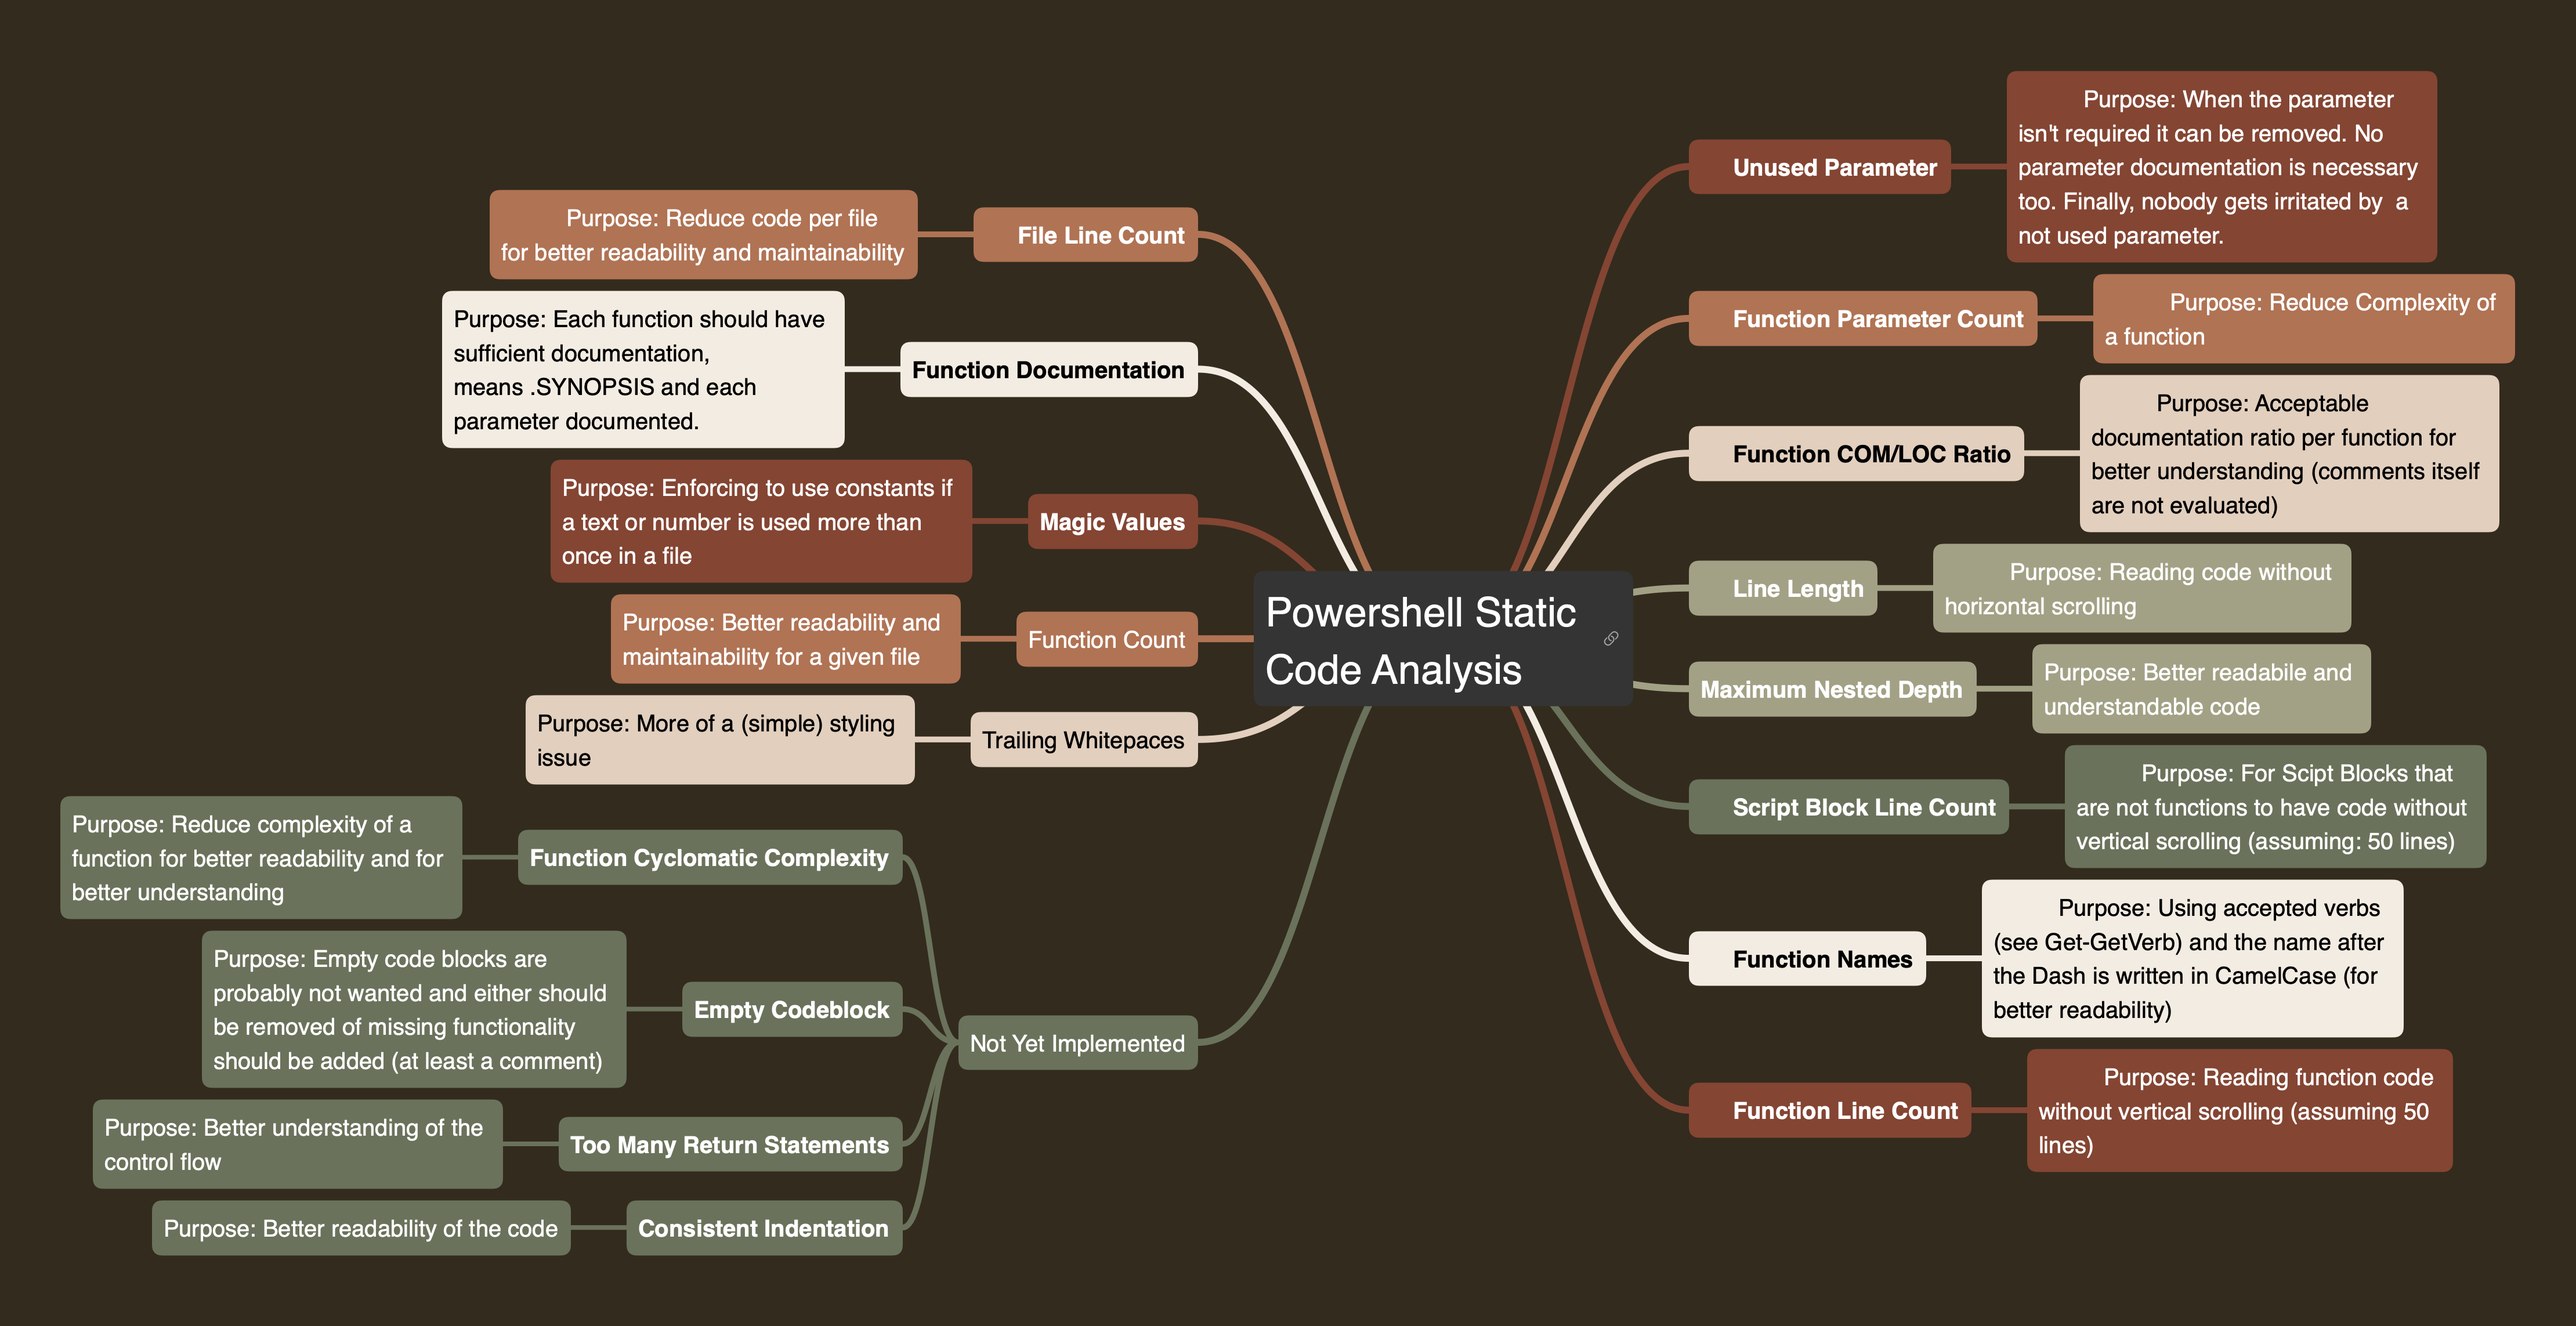
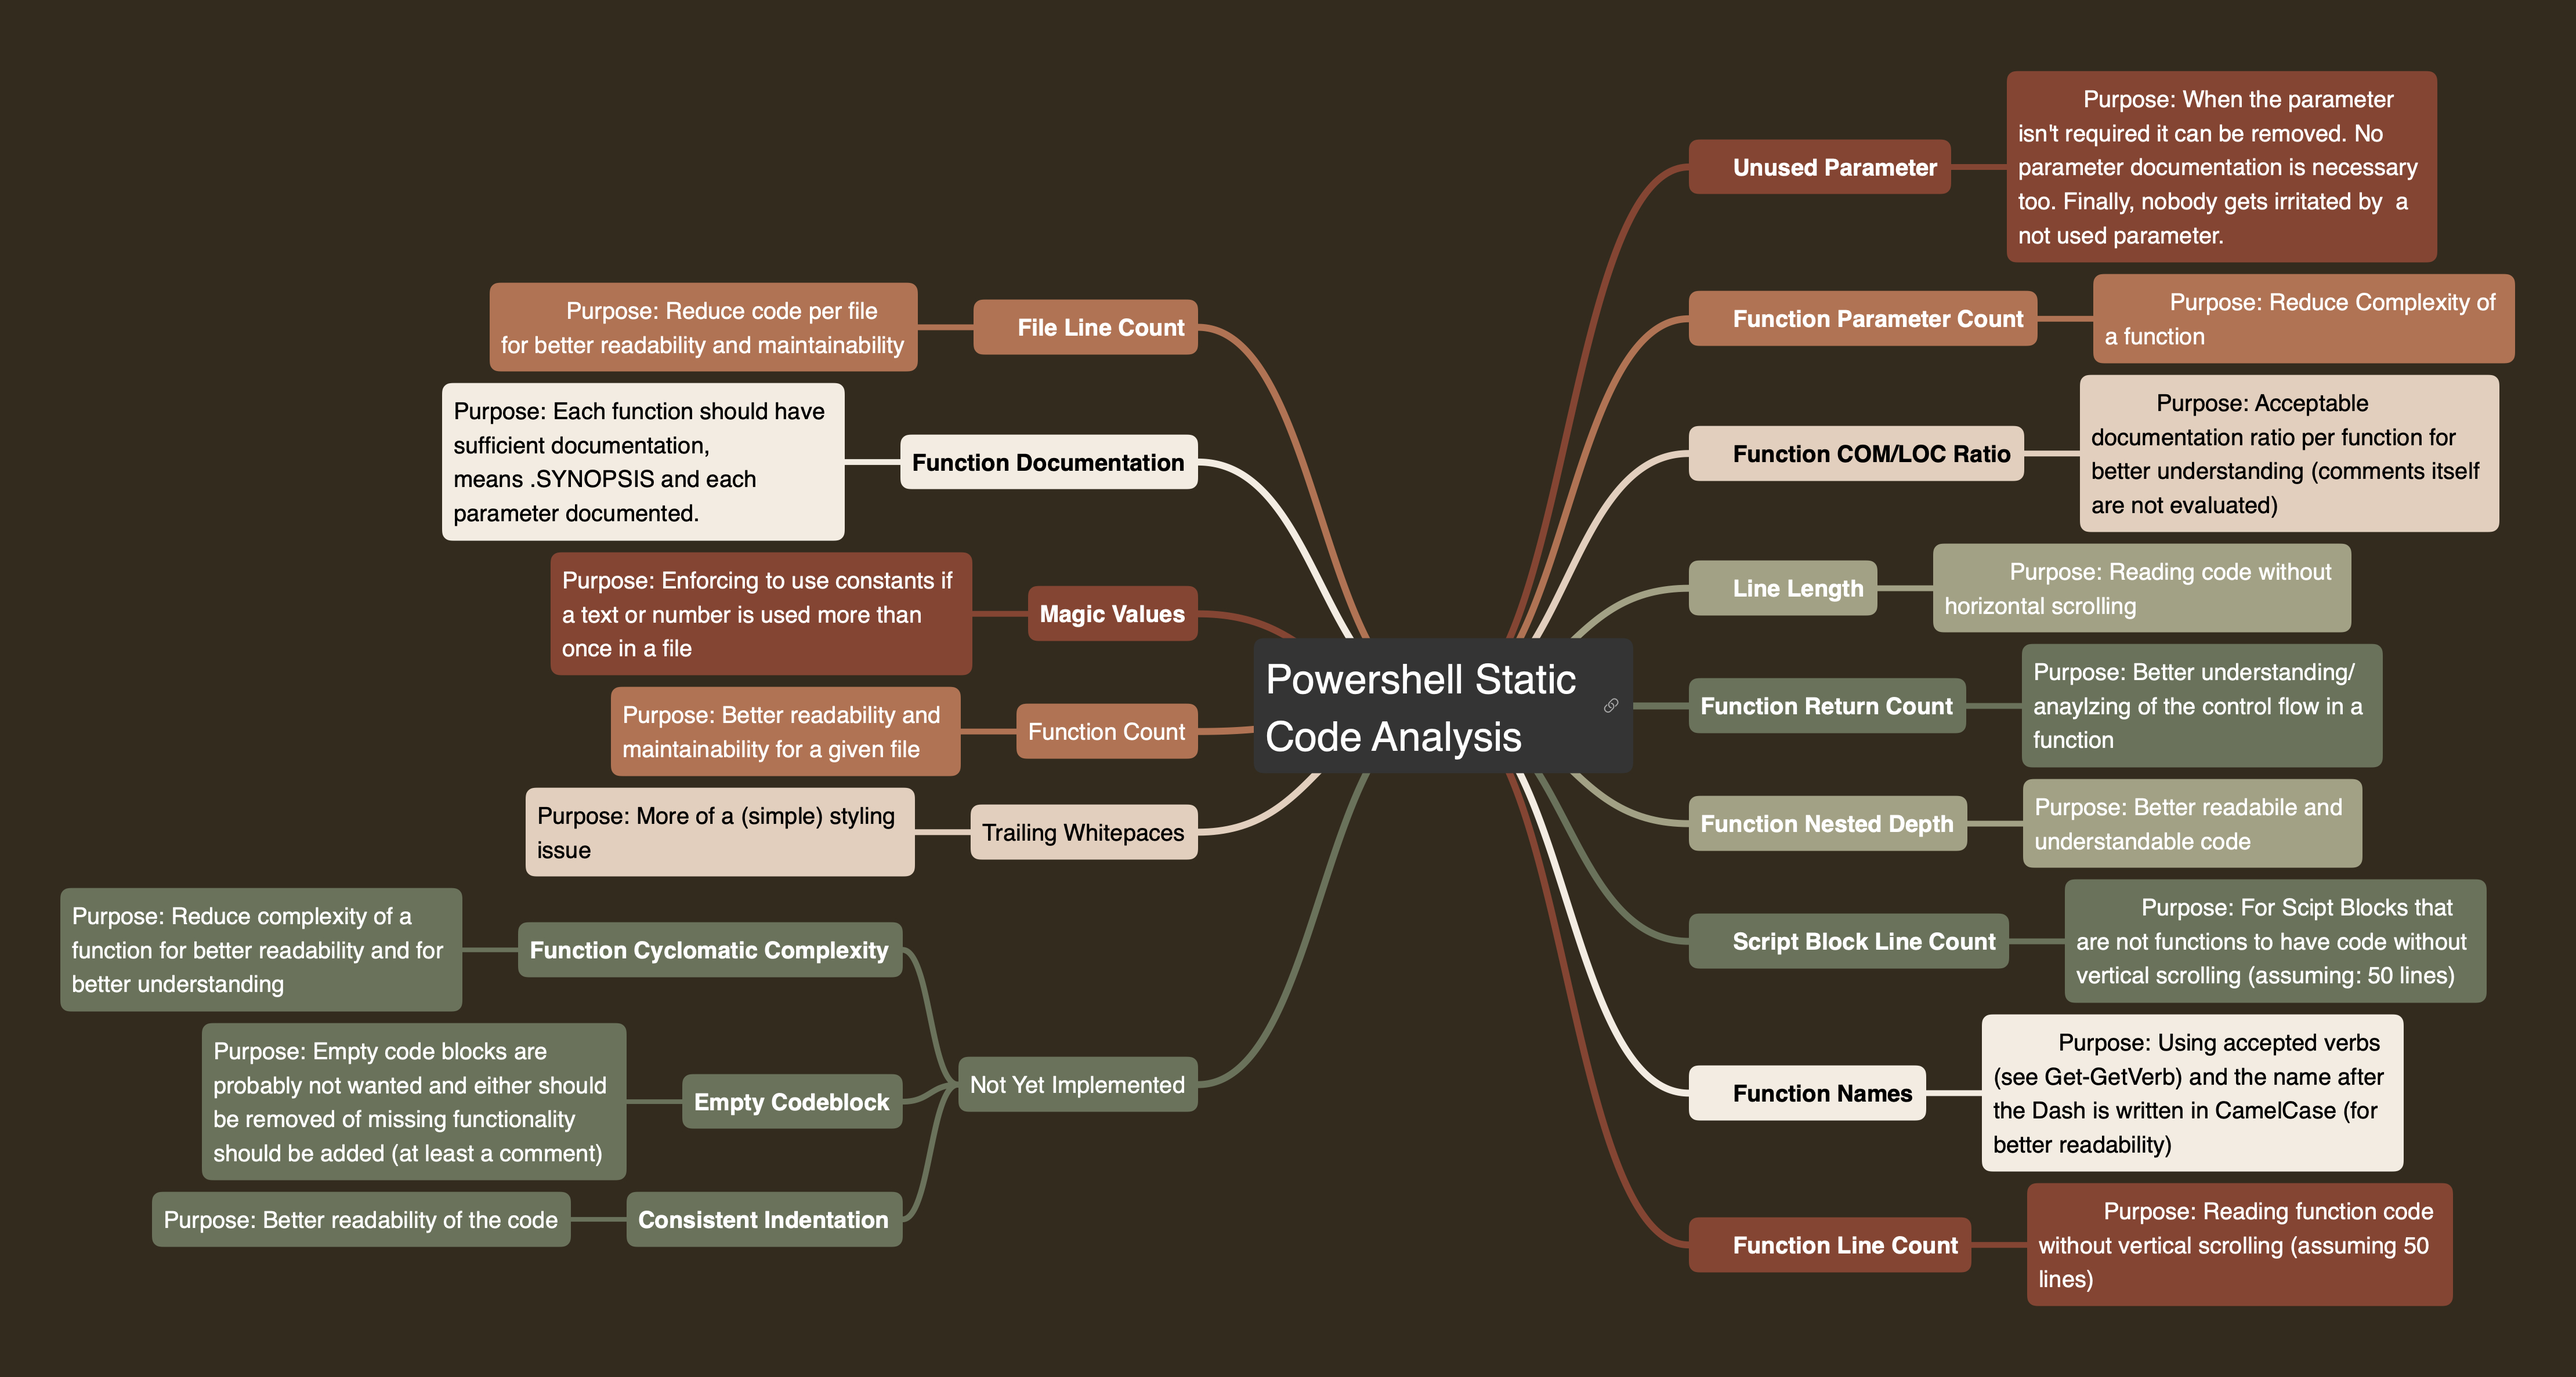
deploy: c62e8448f731cbd74ed979a518ba2d1b1ae5cb81

diff --git a/static-code-analysis/index.html b/static-code-analysis/index.html
@@ -489,6 +489,15 @@
   
 </li>
       
+        <li class="md-nav__item">
+  <a href="#checking-for-function-return-count" class="md-nav__link">
+    <span class="md-ellipsis">
+      Checking for function return count
+    </span>
+  </a>
+  
+</li>
+      
     </ul>
   
 </nav>
@@ -694,6 +703,15 @@
   <a href="#checking-for-function-nested-depth" class="md-nav__link">
     <span class="md-ellipsis">
       Checking for function nested depth
+    </span>
+  </a>
+  
+</li>
+      
+        <li class="md-nav__item">
+  <a href="#checking-for-function-return-count" class="md-nav__link">
+    <span class="md-ellipsis">
+      Checking for function return count
     </span>
   </a>
   
@@ -912,6 +930,22 @@ You can change it like following:</p>
 </span><span id="__span-11-10"><a id="__codelineno-11-10" name="__codelineno-11-10" href="#__codelineno-11-10"></a>        <span class="c"># other settings</span>
 </span><span id="__span-11-11"><a id="__codelineno-11-11" name="__codelineno-11-11" href="#__codelineno-11-11"></a>    <span class="p">}</span>
 </span><span id="__span-11-12"><a id="__codelineno-11-12" name="__codelineno-11-12" href="#__codelineno-11-12"></a><span class="p">}</span>
+</span></code></pre></div>
+<p>The severity is <code>warning</code>.</p>
+<h2 id="checking-for-function-return-count">Checking for function return count</h2>
+<p>The default is 1. You can change it like following:</p>
+<div class="language-powershell highlight"><pre><span></span><code><span id="__span-12-1"><a id="__codelineno-12-1" name="__codelineno-12-1" href="#__codelineno-12-1"></a><span class="nb">Initialize-AnalyseTask</span> <span class="p">{</span>
+</span><span id="__span-12-2"><a id="__codelineno-12-2" name="__codelineno-12-2" href="#__codelineno-12-2"></a>    <span class="k">param</span> <span class="p">(</span><span class="no">[hashtable]</span> <span class="nv">$TaskData</span><span class="p">)</span>
+</span><span id="__span-12-3"><a id="__codelineno-12-3" name="__codelineno-12-3" href="#__codelineno-12-3"></a>    <span class="nv">$TaskData</span><span class="p">.</span><span class="n">analyseConfiguration</span> <span class="p">=</span> <span class="p">@{</span>
+</span><span id="__span-12-4"><a id="__codelineno-12-4" name="__codelineno-12-4" href="#__codelineno-12-4"></a>        <span class="n">Global</span> <span class="p">=</span> <span class="p">@{</span>
+</span><span id="__span-12-5"><a id="__codelineno-12-5" name="__codelineno-12-5" href="#__codelineno-12-5"></a>            <span class="n">AnalyzePathAndFileNames</span> <span class="p">=</span> <span class="p">@(</span><span class="s1">&#39;./Invoke-Tasks.ps1&#39;</span><span class="p">)</span>
+</span><span id="__span-12-6"><a id="__codelineno-12-6" name="__codelineno-12-6" href="#__codelineno-12-6"></a>        <span class="p">}</span>
+</span><span id="__span-12-7"><a id="__codelineno-12-7" name="__codelineno-12-7" href="#__codelineno-12-7"></a>        <span class="n">AnalyzeFunctionReturnCount</span> <span class="p">=</span> <span class="p">@{</span>
+</span><span id="__span-12-8"><a id="__codelineno-12-8" name="__codelineno-12-8" href="#__codelineno-12-8"></a>            <span class="n">MaximumCount</span> <span class="p">=</span> <span class="n">3</span>
+</span><span id="__span-12-9"><a id="__codelineno-12-9" name="__codelineno-12-9" href="#__codelineno-12-9"></a>        <span class="p">}</span>
+</span><span id="__span-12-10"><a id="__codelineno-12-10" name="__codelineno-12-10" href="#__codelineno-12-10"></a>        <span class="c"># other settings</span>
+</span><span id="__span-12-11"><a id="__codelineno-12-11" name="__codelineno-12-11" href="#__codelineno-12-11"></a>    <span class="p">}</span>
+</span><span id="__span-12-12"><a id="__codelineno-12-12" name="__codelineno-12-12" href="#__codelineno-12-12"></a><span class="p">}</span>
 </span></code></pre></div>
 <p>The severity is <code>warning</code>.</p>
 
